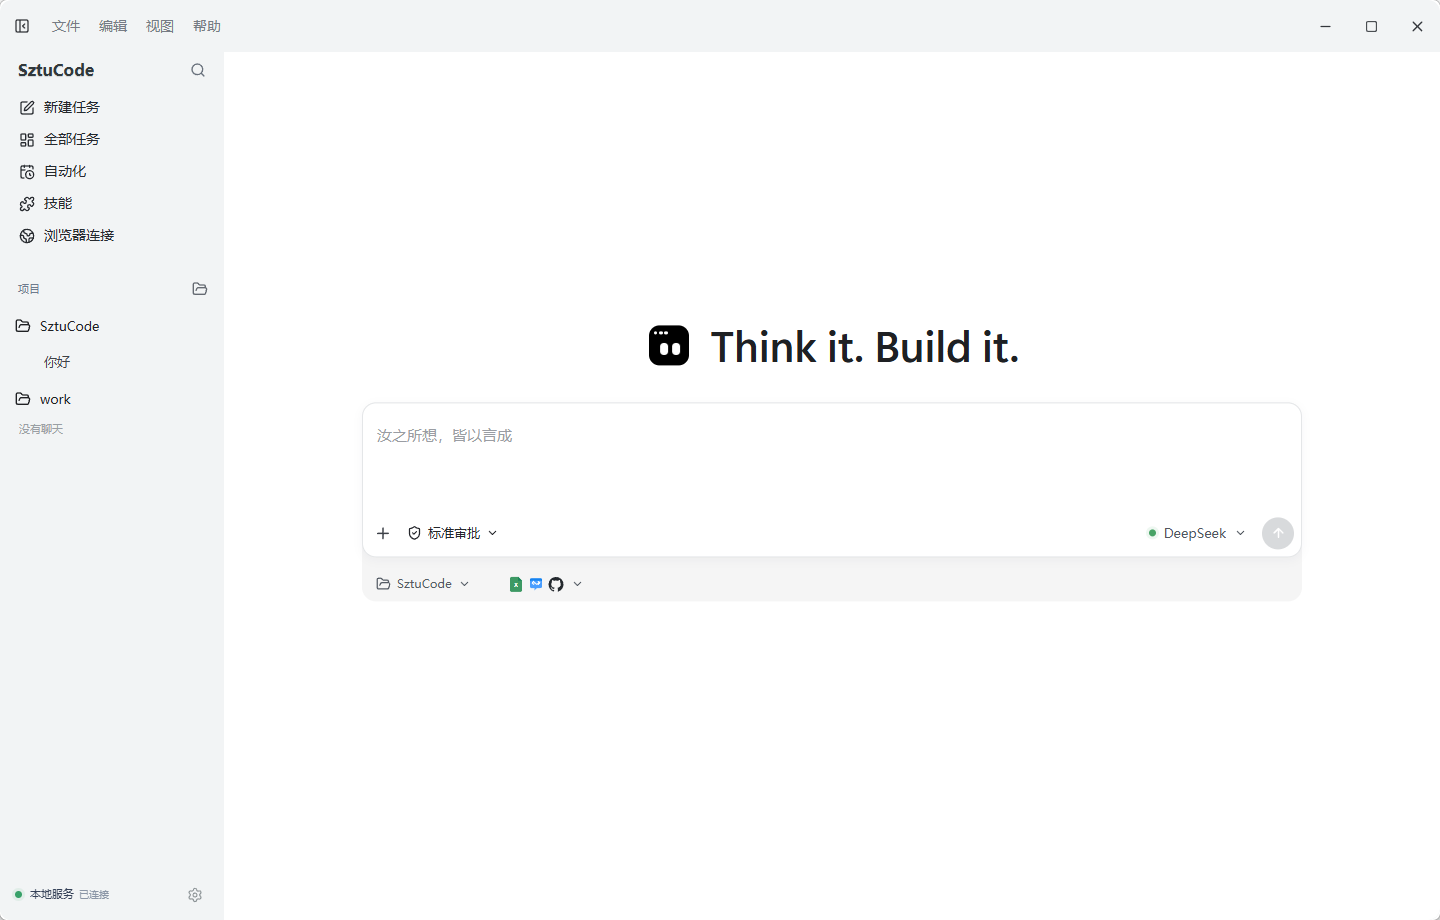
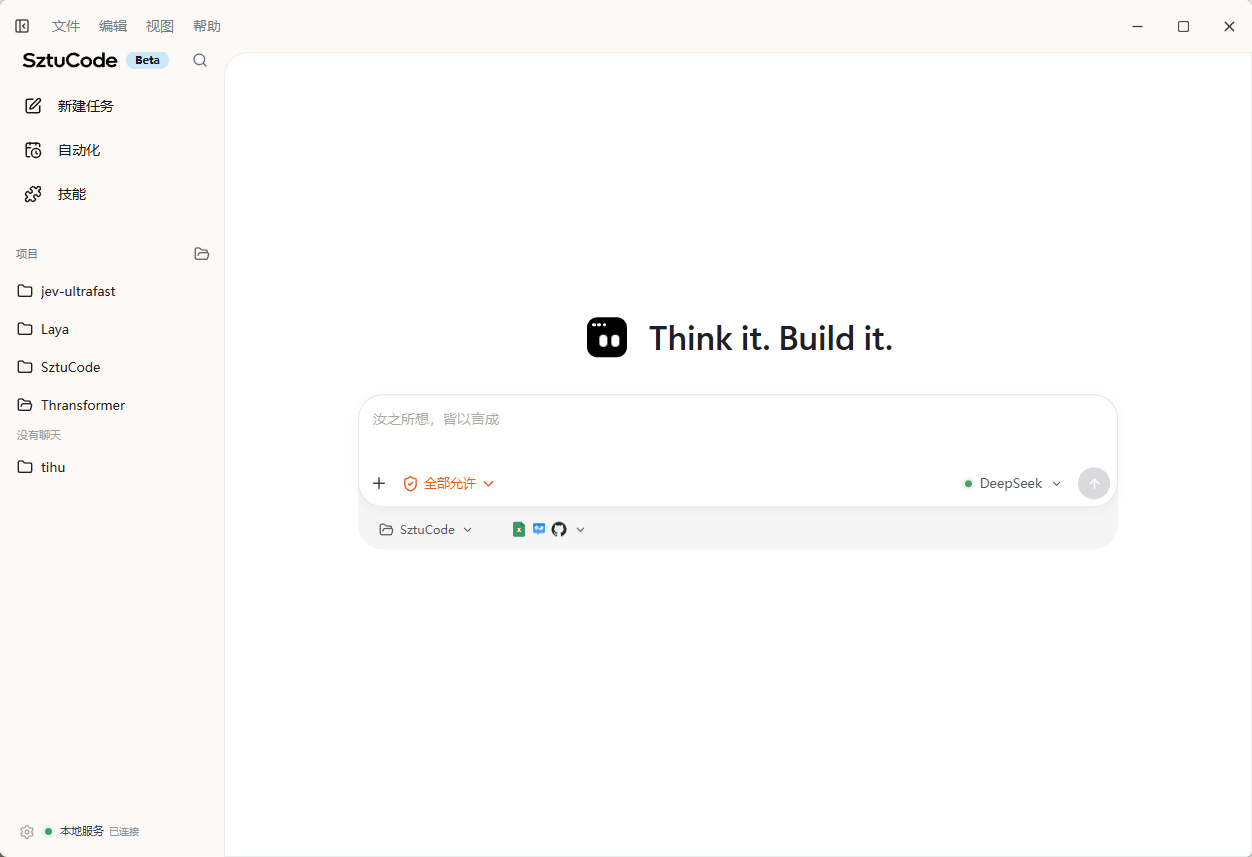
docs：update README.md

diff --git a/desktop/tests/visual/steer-conversation.spec.ts b/desktop/tests/visual/steer-conversation.spec.ts
@@ -1,0 +1,70 @@
+import { expect, test } from "@playwright/test";
+
+// 追加指令（steer）在 run 运行中发送时：命令本身要作为用户消息可见，
+// 并把本轮隔断成新的一轮；run 继续执行，不取消也不重开。
+test("steering command shows as a user message and splits the running turn", async ({ page }) => {
+  await page.setViewportSize({ width: 1180, height: 820 });
+  await page.goto("/", { waitUntil: "domcontentloaded" });
+
+  const warnings: string[] = [];
+  page.on("console", (message) => {
+    if (message.type() === "warning" || message.type() === "error") warnings.push(message.text());
+  });
+
+  const steeringText = "追加：顺便把回归测试也补上";
+  await page.locator("#app").evaluate((root, content) => {
+    const app = (root as HTMLElement & { __vue_app__?: { _instance?: { setupState?: Record<string, unknown> } } }).__vue_app__;
+    const state = app?._instance?.setupState as {
+      timeline: Map<number, unknown>;
+      workspace: Record<string, unknown> | null;
+      workspaces: Array<Record<string, unknown>>;
+      sessions: Array<Record<string, unknown>>;
+      activeId: string | null;
+      activeRunId: string | null;
+      runActive: boolean;
+      applyRuntimeEvent: (event: Record<string, unknown>) => void;
+    } | undefined;
+    if (!state) throw new Error("Vue application state is unavailable");
+
+    const runId = "run-steering";
+    const stamp = new Date().toISOString();
+    const workspace = { workspace_id: "workspace-steering", name: "Steering", path: "F:/steering", archived: false };
+    state.workspace = workspace;
+    state.workspaces = [workspace];
+    state.sessions = [{
+      session_id: "session-steering", title: "追加指令", status: "active", updated_at: "",
+      archived: false, pinned: false, workspace_id: "workspace-steering",
+      total_input_tokens: 0, total_output_tokens: 0, total_elapsed_s: 0,
+    }];
+    state.activeId = "session-steering";
+    state.timeline = new Map([[1, {
+      step: 1, status: "thinking", tokens: [], toolCalls: [], runId,
+      userMessage: "先实现登录校验", userMessageTime: stamp, runStartedAt: stamp,
+    }]]);
+    state.activeRunId = runId;
+    state.runActive = true;
+    // 真实事件顺序：run 已跑到第 1 步，用户此时发送追加指令，run 继续到后续步骤
+    state.applyRuntimeEvent({ type: "run.started", run_id: runId, ts: stamp });
+    state.applyRuntimeEvent({ type: "step.started", run_id: runId, step: 1, ts: stamp });
+    state.applyRuntimeEvent({ type: "llm.token", run_id: runId, step: 1, token: "PRE_STEER_TOKEN" });
+    state.applyRuntimeEvent({ type: "session.message_steered", session_id: "session-steering", run_id: runId, content, ts: stamp });
+    state.applyRuntimeEvent({ type: "llm.token", run_id: runId, step: 1, token: "POST_STEER_TOKEN" });
+    state.applyRuntimeEvent({ type: "step.started", run_id: runId, step: 2, ts: stamp });
+    state.applyRuntimeEvent({ type: "llm.token", run_id: runId, step: 2, token: "STEP2_TOKEN" });
+  }, steeringText);
+
+  // 同一个 run 被隔断成两轮：追加指令自己开启新一轮
+  const turns = page.locator(".execution-timeline > .timeline-step");
+  await expect(turns).toHaveCount(2);
+  await expect(turns.first().locator(".timeline-user-message")).toContainText("先实现登录校验");
+  await expect(turns.nth(1).locator(".timeline-user-message")).toContainText(steeringText);
+  // 追加前的输出留在原轮次，追加后的输出落在隔断之后
+  await expect(turns.first()).toContainText("PRE_STEER_TOKEN");
+  await expect(turns.first()).not.toContainText("POST_STEER_TOKEN");
+  await expect(turns.nth(1)).toContainText("POST_STEER_TOKEN");
+  await expect(turns.nth(1)).toContainText("STEP2_TOKEN");
+  // 运行未被中断：停止入口仍在，输入框保持追加模式
+  await expect(page.getByRole("button", { name: "停止任务" })).toBeVisible();
+  // 同一 run 的两轮不能重名，否则 Vue 会复用错误的节点
+  expect(warnings.filter((text) => /duplicate keys/i.test(text))).toEqual([]);
+});

diff --git a/desktop/src/App.vue b/desktop/src/App.vue
@@ -1487,16 +1487,31 @@ function applyRuntimeEventToSession(event: RuntimeEvent, sessionId: string) {
   if (type === "session.message_steered") {
     const content = String(event.content ?? "").trim();
     if (!content) return;
-    const step = stepFor(timelineEvent);
+    const stamp = String(event.ts ?? new Date().toISOString());
+    // 追加指令要能看见：它开启一轮新的用户消息，本轮在此隔断；
+    // run 本身继续执行（不取消、不重开），后续输出落到隔断之后的新步。
+    const steerStep = maxTimelineStep(sessionId) + 1;
     const entry: ContextInjectionEntry = {
-      id: `ctx-steering-${runId}-${Date.now()}`,
+      id: `ctx-steering-${runId}-${steerStep}`,
       source: "steering",
       label: t("app.steeringDirective"),
       chars: content.length,
       preview: content.slice(0, 100),
       text: content,
     };
-    setStep(step, (current) => ({ ...current, contextInjections: [...(current.contextInjections ?? []), entry] }));
+    setSessionStep(steerStep, (current) => ({
+      ...current,
+      status: "thinking",
+      runId: relatedRunId,
+      userMessage: content,
+      userMessageTime: stamp,
+      runStartedAt: current.runStartedAt ?? stamp,
+      model: runtimeSettings.value?.model || current.model,
+      contextInjections: [...(current.contextInjections ?? []), entry],
+    }), sessionId);
+    // 该 run 后续的 token/工具调用从这里继续，才能落在用户消息之后
+    currentStepByRun.set(relatedRunId, steerStep);
+    runToSession.set(relatedRunId, sessionId);
     return;
   }
   if (type === "step.started") {

diff --git a/desktop/src/components/timeline/pipeline/PipelineStream.vue b/desktop/src/components/timeline/pipeline/PipelineStream.vue
@@ -69,7 +69,8 @@ const turns = computed<Turn[]>(() => {
     const segments = buildPipelineSegments(steps);
     const interrupted = [...steps].reverse().find((step) => step.outcome?.status === "interrupted");
     return {
-      key: steps.find((step) => step.runId)?.runId ?? `turn-${index}`,
+      // 追加指令会把同一个 run 隔断成两轮，key 只有 runId 会重名，用首步步号补足唯一性
+      key: `${steps.find((step) => step.runId)?.runId ?? "turn"}#${steps[0]?.step ?? index}`,
       runId: steps.find((step) => step.runId)?.runId,
       userMessage: steps.find((step) => step.userMessage)?.userMessage,
       userMessageTime: steps.find((step) => step.userMessageTime)?.userMessageTime,

diff --git a/desktop/src/components/timeline/ExecutionTimeline.vue b/desktop/src/components/timeline/ExecutionTimeline.vue
@@ -464,7 +464,8 @@ const turns = computed<TurnView[]>(() => {
       aggregatedStep.workflowReviews?.length,
     );
     return {
-      key: steps.find((step) => step.runId)?.runId ?? `turn-${index}`,
+      // 追加指令会把同一个 run 隔断成两轮，key 只有 runId 会重名，用首步步号补足唯一性
+      key: `${steps.find((step) => step.runId)?.runId ?? "turn"}#${steps[0]?.step ?? index}`,
       runId: steps.find((step) => step.runId)?.runId,
       changePaths,
       changeFiles,

diff --git a/README.md b/README.md
@@ -15,12 +15,7 @@
 ### 桌面工作台（TypeScript daemon）
 
 ![SztuCode 桌面工作台首页](docs/images/image1.png)
-
-![SztuCode 桌面工作台任务界面](docs/images/image2.png)
-
-![SztuCode 桌面工作台任务界面](docs/images/image3.png)
-
-![SztuCode 桌面工作台技能界面](docs/images/image4.png)
+![SztuCode 上下文演进功能](docs/images/image2.png)
 
 SztuCode 不只面向代码仓库。作为**全场景办公智能体**，它的工作台覆盖高校学习与日常办公的完整链路：撰写与审阅 Word 文档、处理 Excel 表格与公式、生成汇报 PPT、解析 PDF 资料、操控浏览器检索信息、生成图片，以及软件工程任务本身。桌面工作台连接 TypeScript daemon；命令行可选择 TypeScript 或 Python runtime。后台 daemon 负责运行 Agent Loop、调用工具、管理权限和保存会话，并通过 JSON-RPC 事件流持续反馈执行状态。
 
